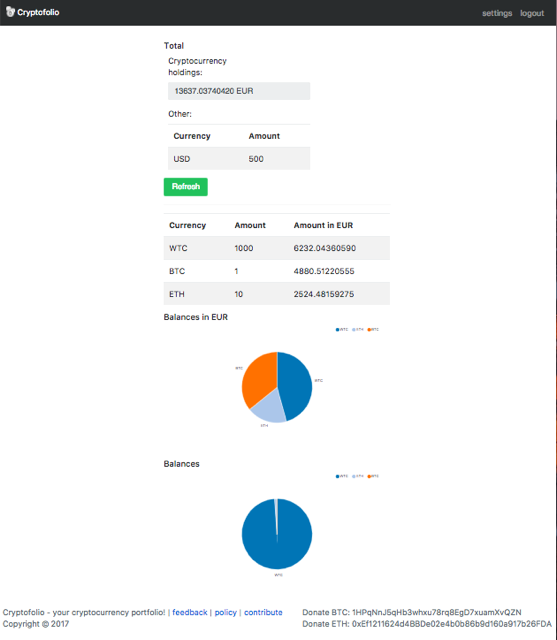
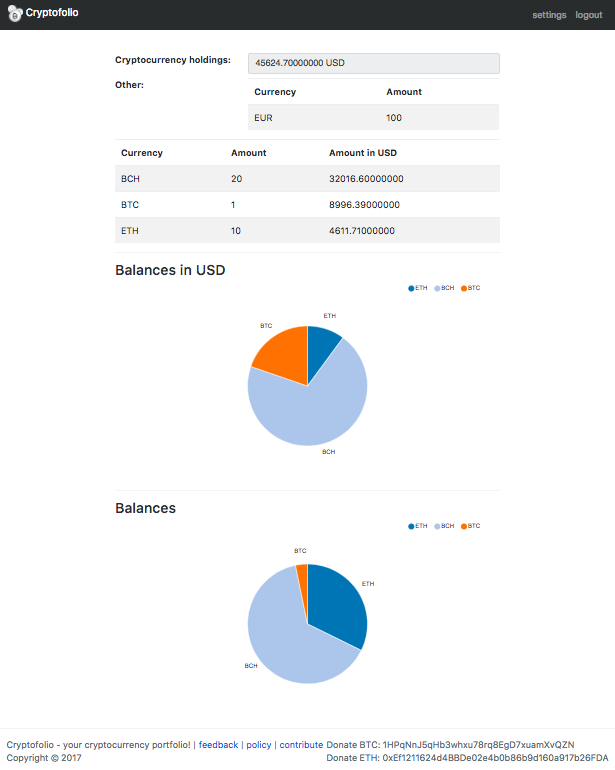
[cryptofolio] Updating readme, moving refresh button
Updated `README.md` with new screenshots and listed all environment
variables that are used at the moment.

Moved the refresh button from the home page to the settings page since I
plan to make the refresh balace feature be implicit and the user
should't do that manually except he wants to.

diff --git a/cryptofolio/templates/home.html b/cryptofolio/templates/home.html
@@ -15,58 +15,49 @@
 <body>
 
     {% if has_data == True %}
-    <div>
-        <h3>Total</h3>
-        <form method="post" action='/refreshBalances/'>
-            {% csrf_token %}
-            <div class="form-group">
-                <div class="form-row">
-                    <div class="col-md-4">
-                        <label>Cryptocurrency holdings:</label>
-                    </div>
-                    <div class="col-md-8">
-                        <input 
-                            type="text"
-                            class="form-control"
-                            disabled
-                            value="{{ fiat_sum|floatformat:-8 }} {{ fiat }}"
-                        />
-                    </div>
-                </div>
-            </div>
-
-            {% if other_balances %}
-            <div class="form-group">
-                <div class="form-row">
-                    <div class="col-md-4">
-                        <label>Other:</label>
-                    </div>
-                    <div class="col-md-8">
-                        <table class="table table-striped">
-                            <thead>
-                                <tr>
-                                    <th>Currency</th>
-                                    <th>Amount</th>
-                                </tr>
-                            </thead>
-                            <tbody>
-                                {% for balance in other_balances|dictsortreversed:"amount" %}
-                                <tr>
-                                    <td>{{ balance.currency }}</td>
-                                    <td>{{ balance.amount|floatformat:-8 }}</td>
-                                </tr>
-                                {% endfor %}
-                            </tbody>
-                        </table>
-                    </div>
-                </div>
-            </div>
-            {% endif %}
- 
-            <button type="submit" class="btn btn-success">Refresh</button>
-        </form>
+    <div class="row py-2">
+        <div class="col-md-4">
+            <label>
+                <b>Cryptocurrency holdings:</b>
+            </label>
+        </div>
+        <div class="col-md-8">
+            <input 
+                type="text"
+                class="form-control"
+                disabled
+                value="{{ fiat_sum|floatformat:-8 }} {{ fiat }}"
+             />
+        </div>
     </div>
-    <hr>
+
+    {% if other_balances %}
+    <div class="row">
+        <div class="col-md-4">
+            <label>
+                <b>Other:</b>
+            </label>
+        </div>
+        <div class="col-md-8">
+            <table class="table table-striped">
+                <thead>
+                    <tr>
+                        <th>Currency</th>
+                        <th>Amount</th>
+                    </tr>
+                </thead>
+                <tbody>
+                    {% for balance in other_balances|dictsortreversed:"amount" %}
+                    <tr>
+                        <td>{{ balance.currency }}</td>
+                        <td>{{ balance.amount|floatformat:-8 }}</td>
+                    </tr>
+                    {% endfor %}
+                </tbody>
+            </table>
+        </div>
+    </div>
+    {% endif %}
 
     <div>
         <table class="table table-striped">
@@ -88,6 +79,7 @@
             </tbody>
         </table>
     </div>
+    <hr>
 
     <div>
         <h3>Balances in {{ fiat }}</h3>

diff --git a/cryptofolio/templates/settings.html b/cryptofolio/templates/settings.html
@@ -11,16 +11,27 @@
             <div class="list-group">
                 {% for exchange in exchanges %}
                 <a
-                 class="list-group-item list-group-item-action"
-                 href="{% url 'exchange' exchange.name %}">
+                    class="list-group-item list-group-item-action"
+                    href="{% url 'exchange' exchange.name %}">
                     {{exchange.name}}
                 </a>
                 {% endfor %}
             </div>
         </div>
     </div>
+    <div class="row">
+        <div class="col-md-8">
+            {% if exchanges %}
+            <form method="post" action='/refreshBalances/'>
+                {% csrf_token %}
+                <button type="submit" class="btn btn-success">
+                    Refresh all balances
+                </button>
+            </form>
+            {% endif %}
+        </div>
+    </div>
     <hr>
-
     <h3>User settings</h3>
     <div class="row">
         <div class="col-md-8">

diff --git a/cryptofolio/views.py b/cryptofolio/views.py
@@ -284,7 +284,7 @@ def refreshBalances(request):
     if has_errors:
         for error in errors:
             messages.warning(request, error)
-    return redirect('home')
+    return redirect('settings')
 
 @login_required
 def removeExchange(request, exchange_id):

diff --git a/README.md b/README.md
@@ -1,16 +1,22 @@
 # Cryptofolio
 ### Your cryptocurrency portfolio! 
 
-![Cryptofolio](/docs/logo.png)
-
-Available at https://cryptofolio.herokuapp.com/ 
+<div style="text-align: center;" align="center">
+<a href="https://cryptofolio.herokuapp.com/">
+    <img src="/docs/logo.png" width="200">
+</a>
+<p>Available at https://cryptofolio.herokuapp.com/ </p>
+</div>
 
 [![Build Status](https://travis-ci.org/msantl/cryptofolio.svg?branch=master)](https://travis-ci.org/msantl/cryptofolio)
 [![License: GPL v3](https://img.shields.io/badge/License-GPL%20v3-blue.svg)](https://www.gnu.org/licenses/gpl-3.0)
 
 ## Usage
+<b>Cryptofolio</b> has four main pages. The home page, settings page,
+exchange page and user profile page.
+
 ### Home 
-![Home Screen](/docs/home.png)
+<img src="/docs/home.png" width="600">
 
 Home screen takes the current state in the cryptomarket and shows you how much
 are your cryptocurrency holdings worth at the given time.
@@ -18,7 +24,7 @@ are your cryptocurrency holdings worth at the given time.
 The refresh button updates balances from all exchanges you have configured.
 
 ### Settings
-![Settings Screen](/docs/settings.png)
+<img src="/docs/settings.png" width="600">
 
 Settings screen has two sections, Exchange settings and User settings.
 Exchange settings allow you to add API key, secret, and passphrase for an
@@ -27,7 +33,7 @@ exchange that is available in Crypofolio.
 User settings allow you to change your details and your password.
 
 ### User Profile
-![User Profile Screen](/docs/user_profile.png)
+<img src="/docs/user_profile.png" width="600">
 
 In User Profile settings you can change your first and last name, and the
 preffered FIAT currency.
@@ -35,7 +41,7 @@ preffered FIAT currency.
 Cryptofolio will use this to summarize your holdings.
 
 ### Exchange
-![Exchange Screen](/docs/exchange.png)
+<img src="/docs/exchange.png" width="600">
 
 Exchange Settings allow you to add/update API key, secret, and passphrase and
 to remove the exchange together with all the balances.
@@ -62,8 +68,15 @@ Install all `python` dependencies using `pip install -r requirements.txt`.
 
 Once you checkout this repository, you need to setup some environment
 variables.
-I'm using `sendgrid` as an email backend, so if you want to do the same, you
+
+Crpytofilo uses:
+* `sendgrid` as an email backend, so if you want to do the same, you
 need to create an account there and obtain the `sendgrid` API key.
+
+* `sentry` for error tracking.  If you want to track all the errors by either
+heroku slug commit or git commit hash, create an account there and get your
+`sentry` data source name (DSN).
+
 
 Environment variables:
 * `SECRET_KEY`
@@ -74,6 +87,7 @@ Environment variables:
 * `DB_PASSWORD`
 * `DB_HOST`
 * `DB_PORT`
+* `SENTRY_DSN`
 
 Once you've set up those variables you can start setting up some base project
 settings.
@@ -102,4 +116,4 @@ currencies and Exchanges. So go ahead and add `USD` and `EUR` in `Currency`
 table, and `Binance`, `Bittrex`, `Coinbase`, `GDAX`, `Liqui` and `Poloniex` in
 `Exchange` table.
 
-Now you're ready to use Cryptofolio locally! 
+Now you're ready to use <b>Cryptofolio</b> locally! 
